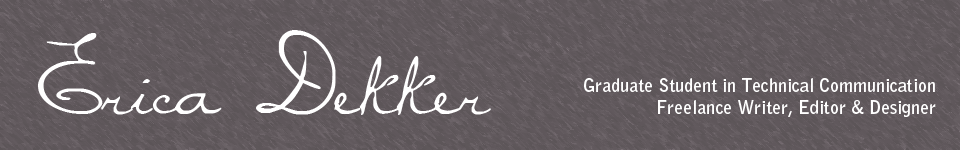
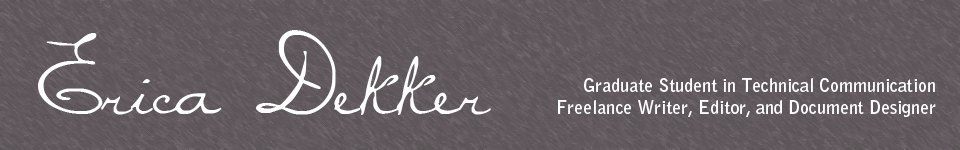
Changed header image from designer to document designer

Changed region(s): [[0.5625, 0.6667, 0.9062, 0.7733]]

diff --git a/htdocs/includes/header.htm b/htdocs/includes/header.htm
@@ -37,7 +37,7 @@
 		<h1><a href="http://ericadekker.com/" rel="home">Erica Dekker</a></h1>
 
 		<p class="tagline">
-			Graduate Student in Technical Communication and Freelance Writer, Editor, and Designer
+			Graduate Student in Technical Communication and Freelance Writer, Editor, and Document Designer
 		</p>
 
 		<ul class="accessibility">
